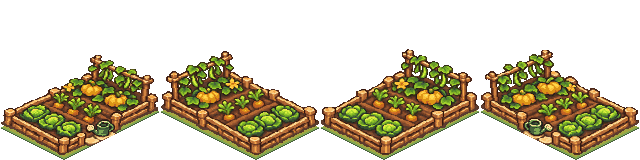
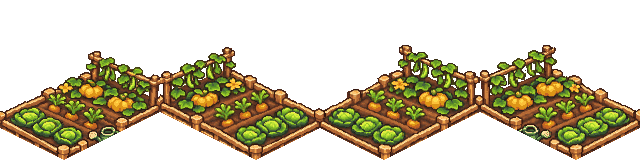
1.25.64 改訂：元の作物と木枠をまかない菜園の四隅まで広げる

diff --git a/qa-build/STATUS.md b/qa-build/STATUS.md
@@ -4,9 +4,13 @@
 - 保存先　`lion000097/monster-biyori` の `fix/1.25.64-building-art`。基準は `9046c820` の `game.html` と建物原画。公開前の変更はこのブランチに積む。
 - 完了事項　シャボン玉のつぼの器と、光るきのこの群生の傘・軸の各4方向を1.25.64の元絵から取り出した。敷石・草台を透明にし、道・石タイルの上に置くことと後から下に敷くことを許可するコードを保存。
 - 確認結果　`assets/town-buildings/bubblePot.png` と `glowMushrooms.png` は64px×4方向。マスの周囲は透明。元の公開版は1.25.65で、進捗に記載されたPages成功と公開 `latest.json` を確認。
-- 残作業　ほかの施設の接地、菜園、世界樹、配布物、ゲーム操作・セーブ引継ぎ試験、公開。
+- 残作業　ほかの施設の接地、世界樹、配布物、ゲーム操作・セーブ引継ぎ試験、公開。
 - 次の操作　`releases/1.25.64/game.html` を基に `qa-build/gameplay.patch` と確定した原画を適用して続行。
 
 ## 音楽堂
 
 屋外広場の原画を `assets/town-buildings/musicHall.png` に保存。竪琴の演奏台、腰掛け、中央のモザイクを4方向で作画した。3×3の角を道と同じ投影に合わせ、演奏役と観客の立ち位置も反映した。原寸192pxの4方向を確認。次は菜園。
+
+## まかない菜園
+
+`assets/town-buildings/kitchenGarden.png` の4方向を更新。1.25.64のかぼちゃ・葉物・木枠を残して2×3の全区画に広げた。4方向すべてで敷地の全画素が埋まり、手前の道へ出る画素が0であることを確認。次は各施設の縁と世界樹。
